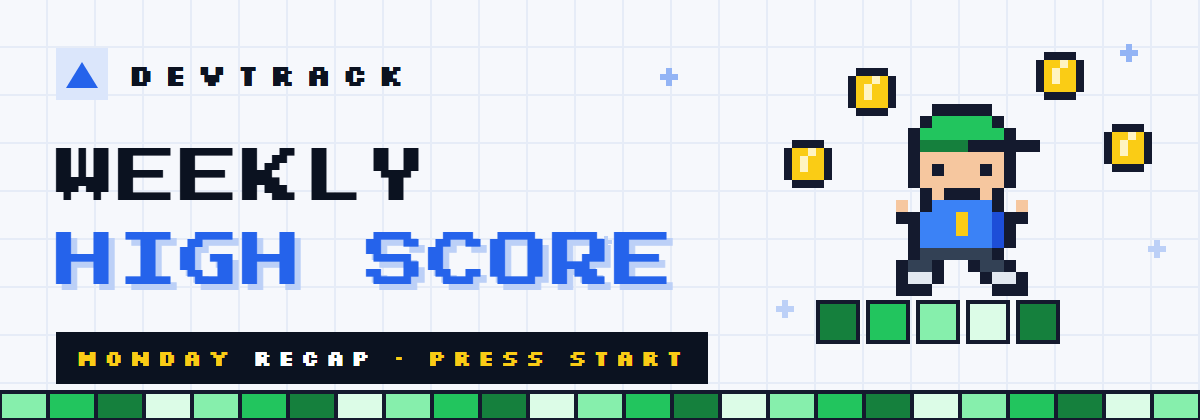
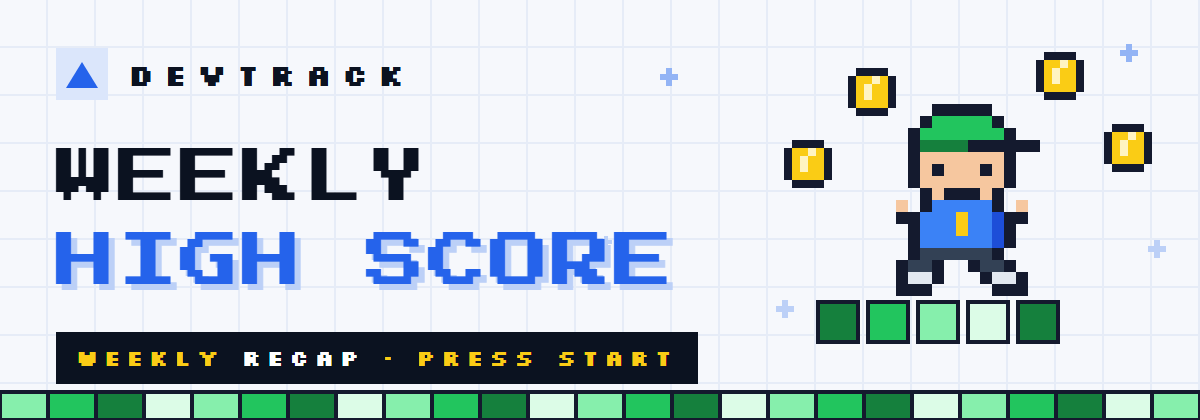
fix(digest): say weekly, not Monday
The digest can be sent on any day, so the email no longer names one: the
header tag reads WEEKLY RECAP, Bit says "See you next week", and the footer,
settings text, Terms and Privacy Policy say "once a week".

Changed region(s): [[0.3392, 0.8048, 0.6167, 0.8976], [0.0925, 0.8357, 0.3083, 0.8976]]

diff --git a/src/lib/digest-email.ts b/src/lib/digest-email.ts
@@ -401,12 +401,12 @@ export function buildDigestHtml(data: DigestEmailData): string {
                 </td>
                 <td valign="middle">
                   <table role="presentation" cellpadding="0" cellspacing="0" border="0"><tr>
-                    <td style="background:${CARD};border:2px solid ${INK};padding:9px 12px;font-family:${PIXEL};font-size:12px;font-weight:700;letter-spacing:1px;color:${INK};text-transform:uppercase;">See you next Monday, player.</td>
+                    <td style="background:${CARD};border:2px solid ${INK};padding:9px 12px;font-family:${PIXEL};font-size:12px;font-weight:700;letter-spacing:1px;color:${INK};text-transform:uppercase;">See you next week, player.</td>
                   </tr></table>
                 </td>
               </tr></table>
               <p style="margin:16px 0 4px 0;font-family:${BODY};font-size:12px;line-height:1.6;color:${MUTED};">
-                You get this every Monday because the weekly digest is on in your
+                You get this once a week because the weekly digest is on in your
                 <a href="${esc(base)}/dashboard/settings" style="color:${MUTED};">DevTrack settings</a>.
                 <a href="${esc(unsubscribeUrl)}" style="color:${MUTED};text-decoration:underline;">Unsubscribe</a>
               </p>
@@ -486,8 +486,8 @@ export function buildDigestText(data: DigestEmailData): string {
     `Press start: ${base}/dashboard`,
     `Leaderboard: ${base}/leaderboard`,
     ``,
-    `See you next Monday, player.`,
-    `You get this every Monday because the weekly digest is on.`,
+    `See you next week, player.`,
+    `You get this once a week because the weekly digest is on.`,
     `Unsubscribe: ${unsubscribeUrl}`,
     ``
   );

diff --git a/src/app/privacy-policy/page.tsx b/src/app/privacy-policy/page.tsx
@@ -39,7 +39,7 @@ export default function PrivacyPolicyPage() {
             {
               title: "Weekly Email Digest",
               content:
-                "If your GitHub account shares an email address with DevTrack, we send you a weekly summary of your own coding activity every Monday. It is on by default, including for accounts created before this change. Each email has an unsubscribe link, and you can turn it off at any time in Settings. We use your email only for this digest and account messages, never for advertising, and we never sell or share it. Emails are delivered through Resend, which processes your address to send them.",
+                "If your GitHub account shares an email address with DevTrack, we send you a weekly summary of your own coding activity. It is on by default, including for accounts created before this change. Each email has an unsubscribe link, and you can turn it off at any time in Settings. We use your email only for this digest and account messages, never for advertising, and we never sell or share it. Emails are delivered through Resend, which processes your address to send them.",
             },
             {
               title: "Third-Party Services",

diff --git a/src/app/terms/page.tsx b/src/app/terms/page.tsx
@@ -61,9 +61,9 @@ const SECTIONS: Array<{ title: string; body: ReactNode }> = [
     body: (
       <>
         If your GitHub account shares an email address with DevTrack, you get a
-        weekly email every Monday summarising your own coding activity. It is on
-        by default. Unsubscribe from any digest email or turn it off in Settings
-        at any time.
+        weekly email summarising your own coding activity. It is on by default.
+        Unsubscribe from any digest email or turn it off in Settings at any
+        time.
       </>
     ),
   },
